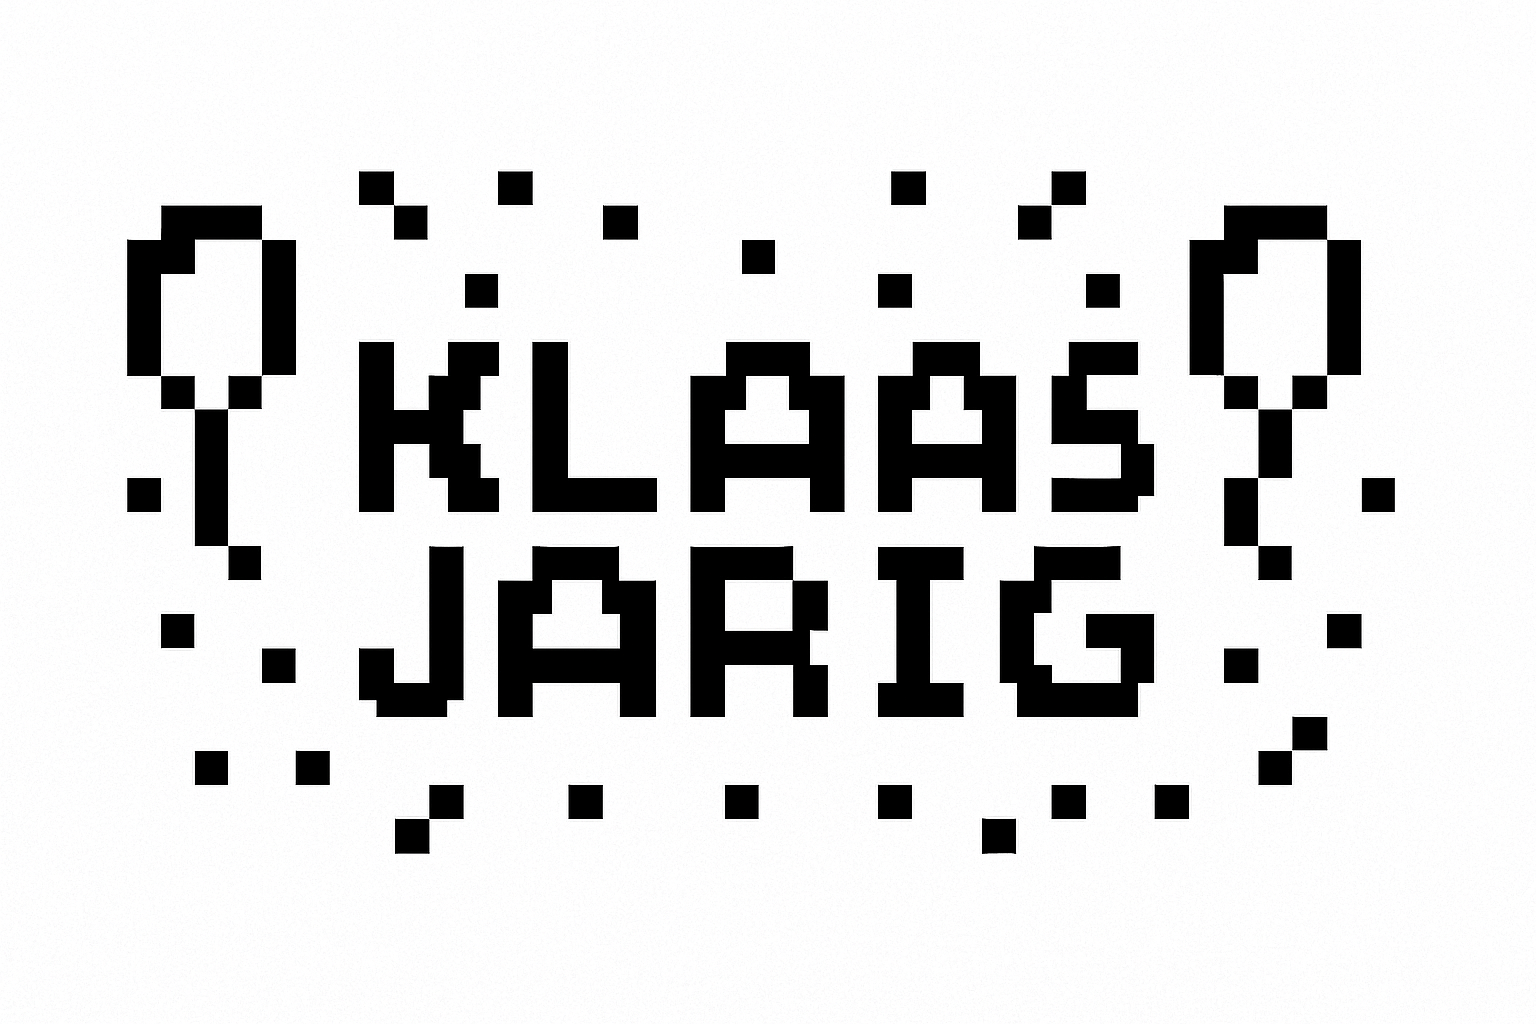
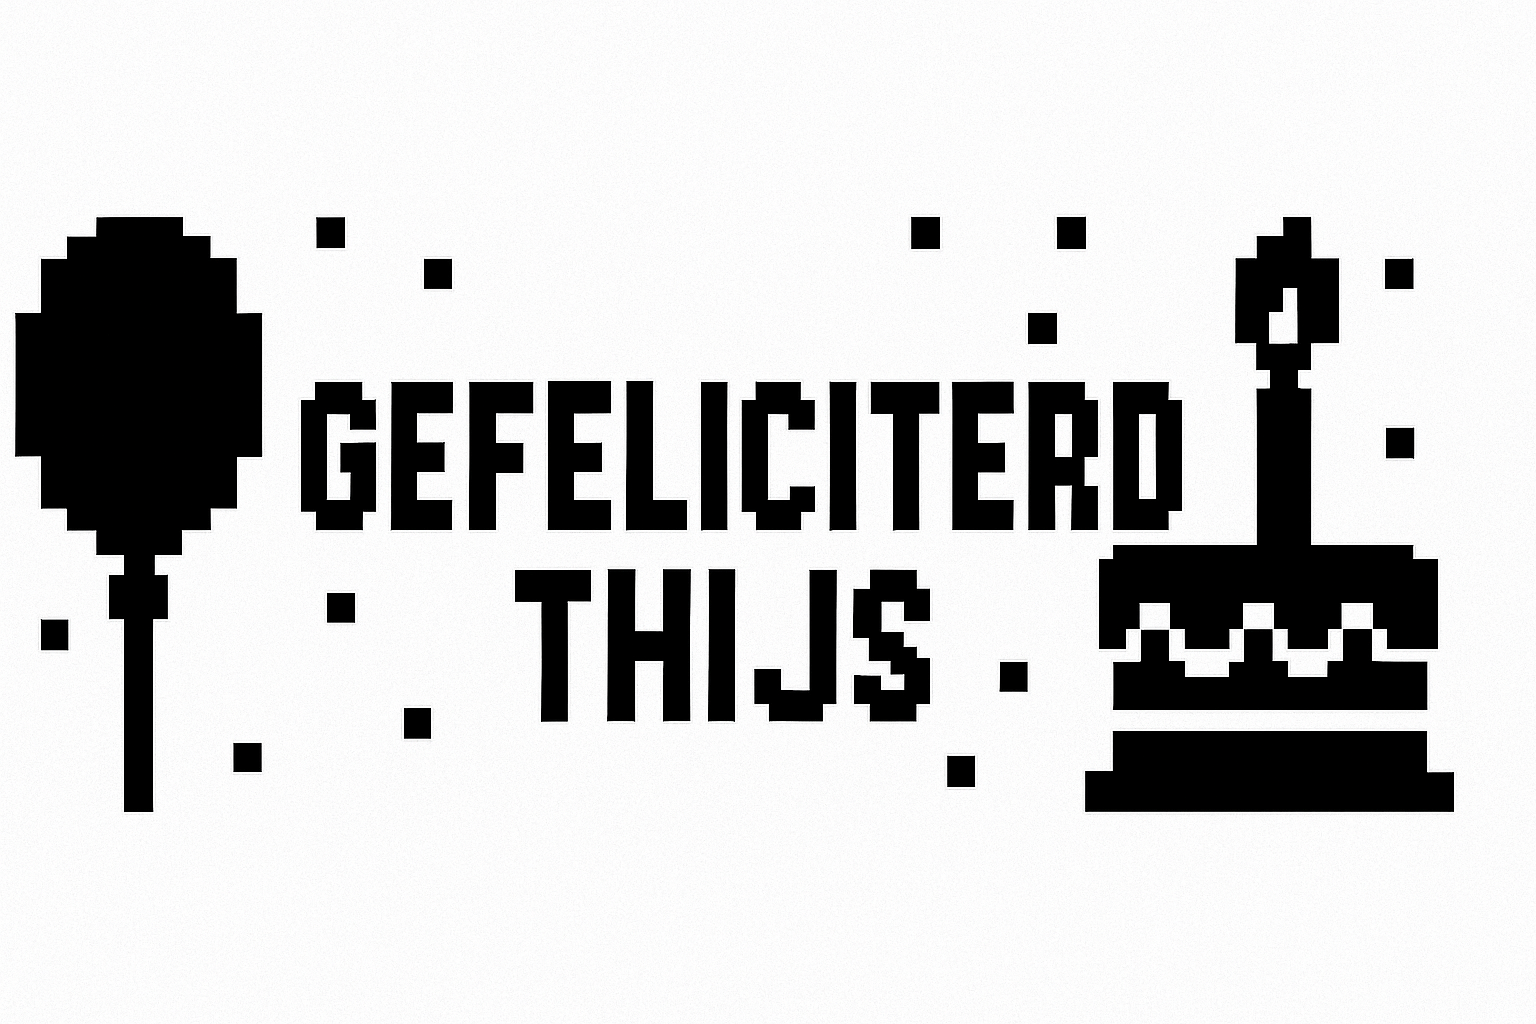
Made generated picture better visible

diff --git a/src/image-generation.js b/src/image-generation.js
@@ -13,7 +13,7 @@ export async function generateImage() {
   console.log("Generating image with message:", message);
   const result = await openai.images.generate({
     model: "gpt-image-1",
-    prompt: `Create a strictly black-and-white pixel-art image at exactly 84×28 pixels, ensuring the entire composition fits perfectly within this resolution with no cropping, no scaling, and no empty margins beyond the defined canvas. Optimize every element for flip-dot display clarity, using only pure black and pure white pixels (no grayscale, dithering, or anti-aliasing). Depict a simple birthday-celebration theme using extremely minimalistic balloons or confetti made from clear geometric shapes that remain recognizable at very small sizes. Center the text ‘${message}’ in thick, monospaced, high-contrast block lettering designed for maximum legibility on low-resolution flip-dot hardware. Maintain strong visual balance, generous spacing between characters and decorative elements, and an uncluttered overall layout to ensure everything is readable and visually stable on an actual flip-dot board`,
+    prompt: `Create a strictly black-and-white pixel-art image at exactly 84×28 pixels. Use only pure black and pure white pixels—no grayscale, dithering, or anti-aliasing. Depict a birthday theme using simple, bold, geometric shapes for balloons, confetti, cakes, or candles, optimized to be clearly recognizable at very small sizes. Center the text '${message}' in thick, high-contrast monospaced block letters that are fully legible on low-resolution flip-dot displays. Maintain strong visual balance and generous spacing between letters and decorative elements. Randomly select two large, clearly defined birthday elements per generation, making sure they do not overlap the text and are easily distinguishable from the background`,
     size: "1536x1024",
     n: 1,
   });
@@ -24,9 +24,3 @@ export async function generateImage() {
   fs.writeFileSync("image.png", image_bytes);
   return image_bytes;
 }
-
-// // generateImage();
-// // console.log(generateImage());
-// generateImage().then(() => {
-//   console.log("Done.");
-// });

diff --git a/src/index.js b/src/index.js
@@ -189,16 +189,10 @@ ticker.start(async ({ deltaTime, elapsedTime }) => {
   ctx.fillStyle = "#000";
   ctx.fillRect(0, 0, width, height);
 
-  //
-  // -------------------------------
-  //   SCALE IMAGE TO 84 × 28 EXACTLY
-  // -------------------------------
-  //
   ctx.drawImage(generatedImageObj, 0, 0, width, height);
 
-  //
   // Convert to pure black/white
-  //
+
   const imageData = ctx.getImageData(0, 0, width, height);
   const data = imageData.data;
 
@@ -213,9 +207,8 @@ ticker.start(async ({ deltaTime, elapsedTime }) => {
 
   ctx.putImageData(imageData, 0, 0);
 
-  //
   // Output
-  //
+
   if (IS_DEV) {
     const filename = path.join(outputDir, "frame.png");
     const buffer = canvas.toBuffer("image/png");

diff --git a/src/api-slack.js b/src/api-slack.js
@@ -27,7 +27,15 @@ export async function getSlackMessage() {
     }
 
     const latestMessage = data.messages[0]?.text || "";
-    const words = ["birthday", "verjaardag", "jarig"];
+    const words = [
+      "birthday",
+      "verjaardag",
+      "jarig",
+      "gefeliciteerd",
+      "dienst",
+      "work celebration",
+      "work anniversary",
+    ];
     const latestAnnouncement = String(latestMessage).toLocaleLowerCase();
 
     for (let i = 0; i < words.length; i++) {
